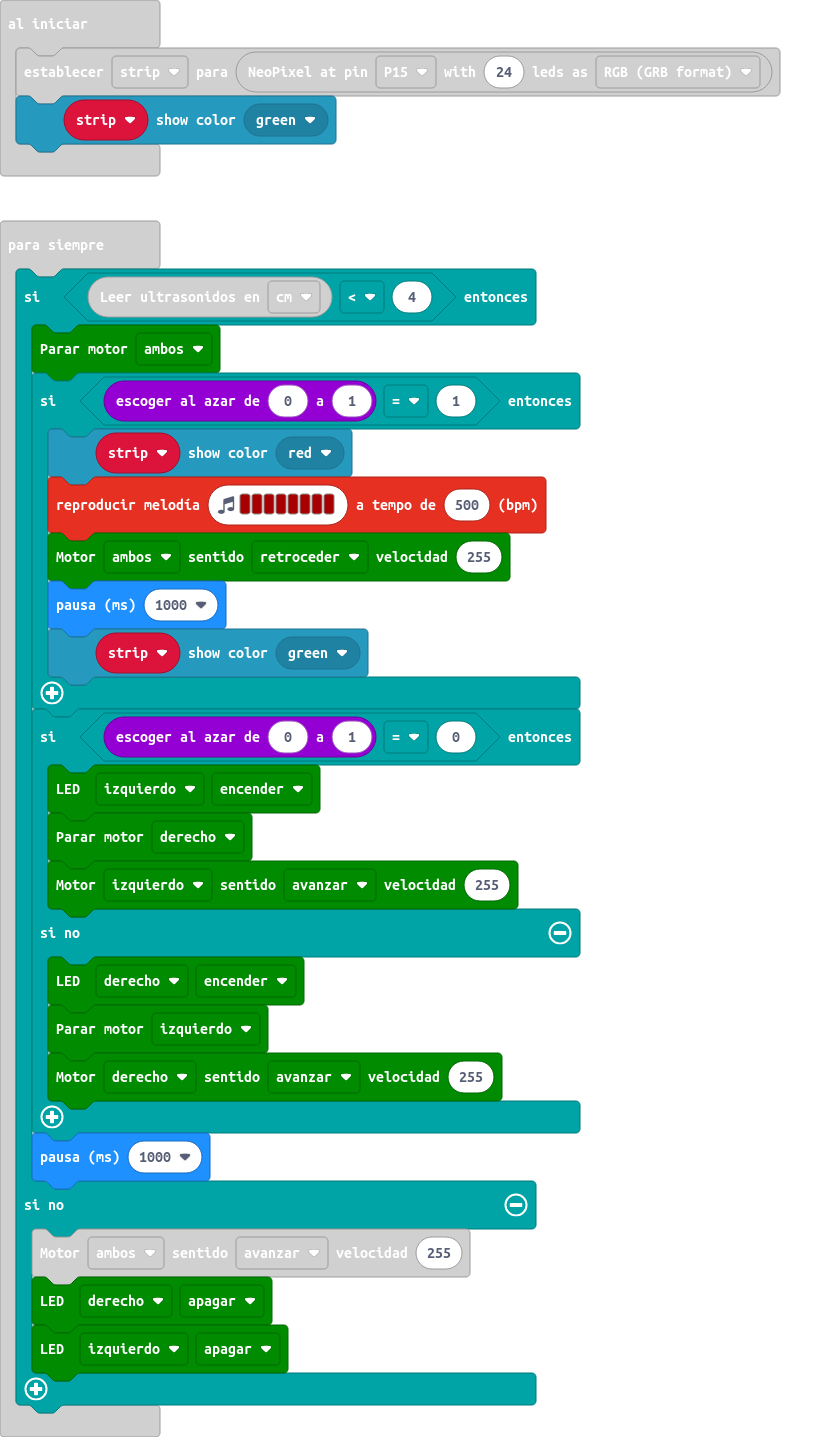
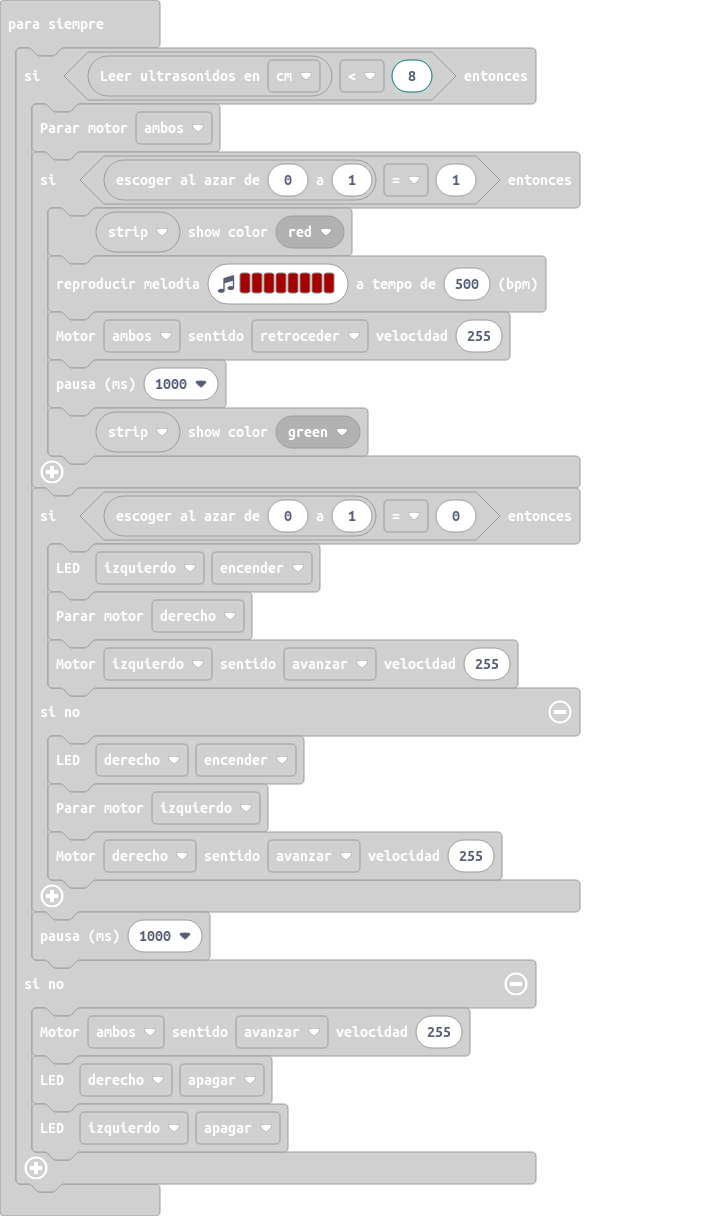
Actualizar main.blocks, main.ts

diff --git a/main.ts b/main.ts
@@ -1,7 +1,7 @@
 let strip = neopixel.create(DigitalPin.P15, 24, NeoPixelMode.RGB)
 strip.showColor(neopixel.colors(NeoPixelColors.Green))
 basic.forever(function () {
-    if (maqueen.Ultrasonic(PingUnit.Centimeters) < 4) {
+    if (maqueen.Ultrasonic(PingUnit.Centimeters) < 8) {
         maqueen.motorStop(maqueen.Motors.All)
         if (randint(0, 1) == 1) {
             strip.showColor(neopixel.colors(NeoPixelColors.Red))
